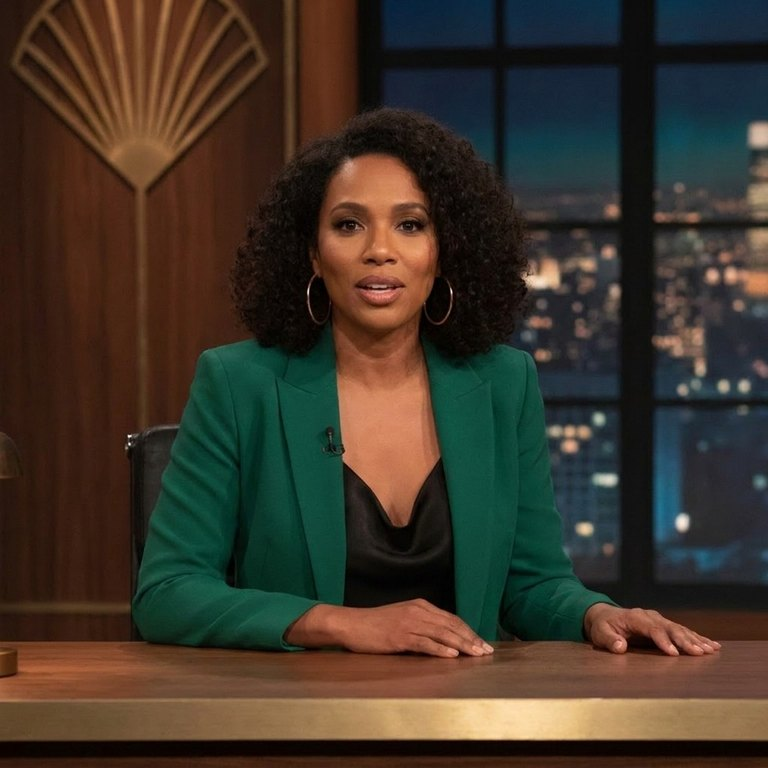
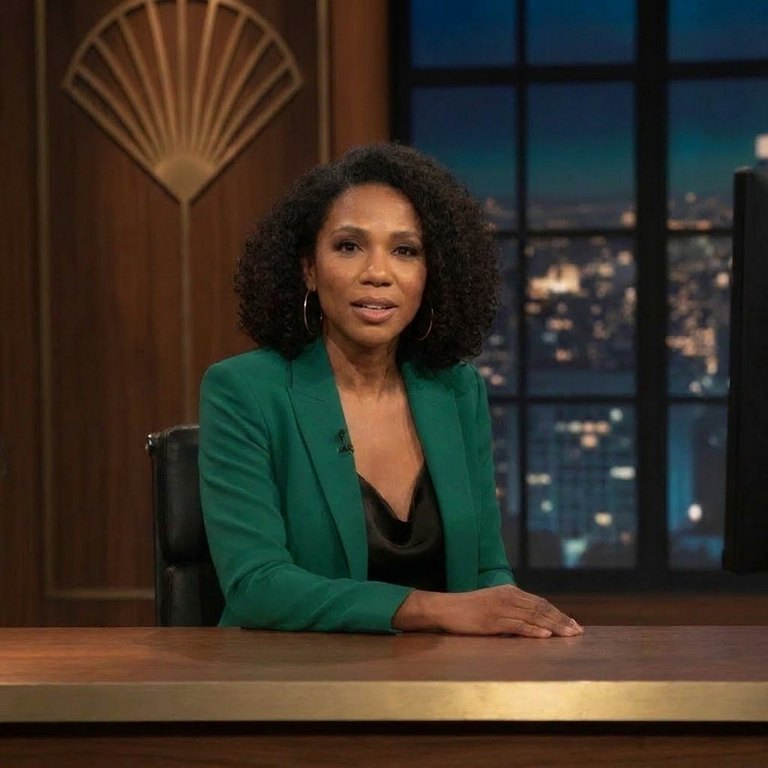
feat: The Gilded Reel's host faces the viewers and turns to her guest, and speaks English throughout
A render's pose is fixed, so the host has two again, in the same seat of the
same set: facing the lens while she speaks to the viewers (the opening, the
film, the invitation, and from the wrap), turned to the TV while her guest is
on. Both say her voice; the one on screen is heard. She is framed further back,
so her gestures stay inside the studio, and the set was rebuilt around that
framing with nobody at the desk.

Both avatars were still drifting into French; the delivery rule no longer
allows any other language, and the guest's persona greets in English.

diff --git a/apps/tv-show-live/page/App.tsx b/apps/tv-show-live/page/App.tsx
@@ -15,12 +15,13 @@ import { BackToApps, clock, useAvatarOnly, type AvatarOnly, type SpeechWriter } 
 import { createBooth, type Booth, type Role, type Stage } from '../show/booth.ts';
 import { startScore } from './score.ts';
 import { createFloor } from '../show/floor.ts';
-import { createDirector, type Director, type Shot, type ShotMode } from '../show/director.ts';
+import { createDirector, hostPose, type Director, type Pose, type Shot, type ShotMode } from '../show/director.ts';
 import { FILM, GUESTS, HOST, SHOW, firstName, type Guest } from '../show/cast.ts';
 import { filmCue, goodbyeCue, inviteCue, noteCue, nudgeCue, topicCue, welcomeCue, wrapCue } from '../show/script.ts';
 import { openSpeech, SpeechError, type SpeechLine } from '../show/speech.ts';
 import { createResampler, createVoice } from '../show/voice.ts';
 import cam1 from '../studio/cam1.jpg';
+import cam2 from '../studio/cam2.jpg';
 import wall from '../studio/wall.jpg';
 import desk from '../studio/desk.webp';
 import ines from '../guests/ines.jpg';
@@ -110,6 +111,8 @@ export function App() {
   const trailerOn = useRef(false);
   trailerOn.current = trailer;
   const [shot, setShot] = useState<Shot>('host-front');
+  const [wrapping, setWrapping] = useState(false);
+  const pose = hostPose(stage, wrapping);
   const [shotMode, setShotMode] = useState<ShotMode>('auto');
   const director = useRef<Director | null>(null);
   const logId = useRef(0);
@@ -120,10 +123,13 @@ export function App() {
   const seatApi = (seat: Role) => `${API}/show/${showRef.current}/${seat}`;
   const face = (seat: string) => (showId ? `tv-show-live/show/${showId}/${seat}` : 'tv-show-live');
   // Jada's face is her camera-1 avatar (facing the lens); her speech session is her main avatar's.
-  const hostFace = useAvatarOnly(face('front'));
+  // Jada twice, one pose each (a render's pose is fixed): camera 1 facing the lens, for the
+  // viewers, and her main avatar turned to the TV, for her guest. Both say her one voice.
+  const frontFace = useAvatarOnly(face('front'));
+  const hostFace = useAvatarOnly(face('host'));
   const guestFace = useAvatarOnly(face('guest'));
-  const faces = useRef({ host: hostFace, guest: guestFace });
-  faces.current = { host: hostFace, guest: guestFace };
+  const faces = useRef({ front: frontFace, host: hostFace, guest: guestFace });
+  faces.current = { front: frontFace, host: hostFace, guest: guestFace };
 
   const booth = useRef<Booth | null>(null);
   const lines = useRef<Partial<Record<Role, SpeechLine>>>({});
@@ -139,7 +145,7 @@ export function App() {
 
   // Each avatar's voice: its face says it, the other avatar hears it, and the booth sees when it speaks.
   const voices = useMemo(() => {
-    const make = (role: Role, seats: ('host' | 'guest')[]) => {
+    const make = (role: Role, seats: ('front' | 'host' | 'guest')[]) => {
       const feeders = seats.map((seat) => ({ seat, feeder: faceFeeder(() => faces.current[seat]) }));
       const resample = createResampler();
       const voice = createVoice({
@@ -177,7 +183,7 @@ export function App() {
         flush() { voice.flush(); for (const { feeder } of feeders) feeder.end(); },
       };
     };
-    return { host: make('host', ['host']), guest: make('guest', ['guest']) };
+    return { host: make('host', ['front', 'host']), guest: make('guest', ['guest']) };
   }, []);
 
   async function openSeat(role: Role) {
@@ -206,22 +212,23 @@ export function App() {
   // screen until Jada invites them on.
   useEffect(() => {
     if (!showId) return;
+    void frontFace.start();
     void hostFace.start();
     void guestFace.start();
   }, [showId]);
   const hostOpened = useRef(false);
   const [backstage, setBackstage] = useState(true);
   useEffect(() => {
-    if ([hostFace, guestFace].some((f) => f.phase !== 'live') || hostOpened.current || !booth.current) return;
+    if ([frontFace, hostFace, guestFace].some((f) => f.phase !== 'live') || hostOpened.current || !booth.current) return;
     hostOpened.current = true;
     setBackstage(false);
     void openSeat('host');
-  }, [hostFace.phase, guestFace.phase]);
+  }, [frontFace.phase, hostFace.phase, guestFace.phase]);
   useEffect(() => {
     if (!onShow) return;
-    const failed = [hostFace, guestFace].find((f) => f.phase === 'failed');
+    const failed = [frontFace, hostFace, guestFace].find((f) => f.phase === 'failed');
     if (failed) offAir(failed.detail || 'A camera could not start.');
-  }, [hostFace.phase, guestFace.phase]);
+  }, [frontFace.phase, hostFace.phase, guestFace.phase]);
   useEffect(() => {
     if (stage !== 'over' || !onShow) return;
     const id = setTimeout(() => void wrapUp(), END_AFTER_GOODBYE_MS);
@@ -232,9 +239,10 @@ export function App() {
   // Both voices are heard whatever the shot; nobody in the studio during the trailer.
   useEffect(() => {
     const set = (f: AvatarOnly, on: boolean) => { if (f.audioRef.current) f.audioRef.current.muted = !on; };
-    set(hostFace, !trailer);
+    set(frontFace, pose === 'front' && !trailer);
+    set(hostFace, pose === 'turned' && !trailer);
     set(guestFace, patched && !trailer);
-  }, [trailer, patched, hostFace.phase, guestFace.phase]);
+  }, [pose, trailer, patched, frontFace.phase, hostFace.phase, guestFace.phase]);
 
   function offAir(why: string) {
     if (!booth.current) return;
@@ -250,13 +258,13 @@ export function App() {
     setTrailer(false);
     voices.host.flush();
     voices.guest.flush();
-    await Promise.allSettled([lines.current.host?.end(), lines.current.guest?.end(), faces.current.host.end(), faces.current.guest.end()]);
+    await Promise.allSettled([lines.current.host?.end(), lines.current.guest?.end(), faces.current.front.end(), faces.current.host.end(), faces.current.guest.end()]);
     lines.current = {};
     if (showRef.current) void fetch(`${API}/show/${showRef.current}/end`, { method: 'POST', keepalive: true }).catch(() => {});
   }
 
   async function goOnAir(first: string) {
-    setProblem(''); setLog([]); setUsed(new Set([first])); setPatched(false); setStage('greeting'); setTrailer(false); setShot('host-front'); setShotMode('auto');
+    setProblem(''); setLog([]); setUsed(new Set([first])); setPatched(false); setStage('greeting'); setTrailer(false); setShot('host-front'); setShotMode('auto'); setWrapping(false);
     director.current?.close();
     director.current = createDirector({ onShot: setShot });
     hostOpened.current = false;
@@ -298,13 +306,13 @@ export function App() {
     addLog('booth', `Topic for Jada: ${topic}`);
   };
   const sendNote = (text: string) => { booth.current?.cue(noteCue(text)); addLog('booth', `Note for Jada: ${text}`); };
-  const wrap = () => { booth.current?.wrap(); addLog('booth', 'Wrap it up'); };
+  const wrap = () => { booth.current?.wrap(); setWrapping(true); addLog('booth', 'Wrap it up'); };
   const chooseShot = (mode: ShotMode) => { setShotMode(mode); director.current?.mode(mode); };
   const endShow = () => { offAir(''); setStage('over'); };
   const backToLobby = () => { booth.current = null; setOnShow(false); setShowId(null); };
 
   const done = (p: AvatarOnly['phase']) => p === 'ended' || p === 'failed' || p === 'idle';
-  const allDone = done(hostFace.phase) && done(guestFace.phase);
+  const allDone = done(frontFace.phase) && done(hostFace.phase) && done(guestFace.phase);
 
   return (
     <div className="nc-app gr">
@@ -323,7 +331,7 @@ export function App() {
         <Lobby guestId={guestId} setGuestId={setGuestId} topics={topics} setTopics={setTopics} onGo={goOnAir} problem={problem} />
       ) : (
         <main className="nc-show">
-          <Program host={hostFace} guest={guestFace} guestInfo={guest} patched={patched} stage={stage}
+          <Program front={frontFace} host={hostFace} pose={pose} guest={guestFace} guestInfo={guest} patched={patched} stage={stage}
             backstage={backstage} shot={shot} trailer={trailer} onTrailerDone={trailerDone} />
           <section className="nc-booth" aria-label="The booth">
             <div className="nc-booth-head">
@@ -372,17 +380,17 @@ function Face({ face, poster }: { face: AvatarOnly; poster: string }) {
 // the renderer's drift has no hard line to slip against); the guest plays on
 // the TV. The director's shots are camera
 // moves on that set: wide, pushed in on Jada, pushed in on the TV.
-function Program({ host, guest, guestInfo, patched, stage, backstage, shot, trailer, onTrailerDone }: {
-  host: AvatarOnly; guest: AvatarOnly; guestInfo: Guest; patched: boolean; stage: Stage;
+function Program({ front, host, pose, guest, guestInfo, patched, stage, backstage, shot, trailer, onTrailerDone }: {
+  front: AvatarOnly; host: AvatarOnly; pose: Pose; guest: AvatarOnly; guestInfo: Guest; patched: boolean; stage: Stage;
   backstage: boolean; shot: Shot; trailer: boolean; onTrailerDone: () => void;
 }) {
   const live = stage === 'on-air' || stage === 'closing';
   const g = firstName(guestInfo.name);
-  const faces = [host, guest];
+  const faces = [front, host, guest];
   const failed = faces.find((f) => f.phase === 'failed');
   const backstageText = failed ? failed.detail : faces.some((f) => f.phase === 'warming') ? 'Lighting the stage…' : 'Getting the studio ready…';
   // Which cameras are up, so a long wait says what it is waiting for.
-  const cameras: [string, AvatarOnly][] = [['Jada', host], [g, guest]];
+  const cameras: [string, AvatarOnly][] = [['Camera 1', front], ['Camera 2', host], [g, guest]];
   // Until the guest is on, the camera stays wide on Jada and the key art on the TV.
   const camera = !patched ? 'wide' : shot === 'host-side' ? 'host' : shot === 'guest' ? 'tv' : 'wide';
   const third = camera === 'tv' ? { name: guestInfo.name, billing: guestInfo.billing } : camera === 'host' || !patched ? HOST : null;
@@ -403,7 +411,9 @@ function Program({ host, guest, guestInfo, patched, stage, backstage, shot, trai
           {patched && <span className="tv-live"><span className="nc-rec" />Live · via video call</span>}
           <span className="gr-tv-glass" aria-hidden="true" />
         </div>
-        <div className="gr-host"><Face face={host} poster={cam1} /></div>
+        {/* Both of Jada's renders stay in frame (a video off screen is not sent); the other one is hidden. */}
+        <div className={`gr-host ${pose === 'front' ? '' : 'is-off'}`}><Face face={front} poster={cam1} /></div>
+        <div className={`gr-host ${pose === 'turned' ? '' : 'is-off'}`}><Face face={host} poster={cam2} /></div>
         {/* The front of the desk, in front of her: when the renderer zooms in, her arms go
             behind a desk that stays put, and the desk runs on unbroken. */}
         <img className="gr-desk" src={desk} alt="" />
@@ -426,7 +436,7 @@ function Program({ host, guest, guestInfo, patched, stage, backstage, shot, trai
           )}
         </div>
       )}
-      {(host.audioBlocked || guest.audioBlocked) && (
+      {(front.audioBlocked || host.audioBlocked || guest.audioBlocked) && (
         <button type="button" className="nc-hear" onClick={() => faces.forEach((f) => f.resumeAudio())}>Tap to hear the show</button>
       )}
       <div className="nc-ticker gr-ticker" aria-hidden="true">

diff --git a/apps/tv-show-live/page/gilded.css b/apps/tv-show-live/page/gilded.css
@@ -229,23 +229,24 @@ button { font: inherit; }
 .gr-set { position: absolute; inset: 0; transform-origin: 50% 50%; }
 /* Cuts, not zooms: a studio camera is either on its shot or not. */
 /* Jada from the chest up; the TV's edge stays in frame (a video off screen is not sent). */
-.gr-program.is-host .gr-set { transform: scale(1.5); transform-origin: 0% 54.8%; }
-.gr-program.is-tv .gr-set { transform: scale(1.9); transform-origin: 94.9% 39.7%; }
+.gr-program.is-host .gr-set { transform: scale(1.5); transform-origin: 4% 35%; }
+.gr-program.is-tv .gr-set { transform: scale(1.9); transform-origin: 95.36% 19.4%; }
 .gr-wall { position: absolute; inset: 0; width: 100%; height: 100%; object-fit: fill; }
 
-/* Jada: her whole render, laid exactly over her still in the set (the set was outpainted from
-   that still, and her place in it measured), so the desk and wall run on past her edges. Only
-   the edges inside the frame fade, narrowly: the still under them is her too. */
-.gr-host { position: absolute; left: 0.208%; top: 12.189%; width: 49.167%; height: 88.06%; z-index: 2;
-  -webkit-mask-image: linear-gradient(to right, #000 72%, transparent 100%), linear-gradient(to bottom, transparent 0, #000 14%);
-  -webkit-mask-composite: source-in; mask-image: linear-gradient(to right, #000 72%, transparent 100%), linear-gradient(to bottom, transparent 0, #000 14%); mask-composite: intersect; }
+/* Jada: her whole render, laid exactly over her place in the set (the set was outpainted from
+   her still and she was then removed from it; her place was measured by matching the two). It
+   fills the frame's height, so only its right edge lies inside the frame, and that edge fades
+   into empty wall and window. */
+.gr-host { position: absolute; left: 0.486%; top: 0.498%; width: 55.417%; height: 99.254%; z-index: 2;
+  -webkit-mask-image: linear-gradient(to right, #000 86%, transparent 100%); mask-image: linear-gradient(to right, #000 86%, transparent 100%); }
 /* The desk's front, from just below her hands: cut from the set, laid over her render. */
-.gr-desk { position: absolute; left: 0; top: 87.5%; width: 100%; height: 12.5%; z-index: 3; pointer-events: none; }
+.gr-host.is-off { opacity: 0; }
+.gr-desk { position: absolute; left: 0; top: 86%; width: 100%; height: 14%; z-index: 3; pointer-events: none; }
 .ll-face { position: absolute; inset: 0; overflow: hidden; background: transparent; }
 .ll-face img, .ll-face video { position: absolute; inset: 0; width: 100%; height: 100%; object-fit: cover; display: block; }
 
 /* The TV on the wall: the screen measured from the backdrop's green. */
-.gr-tv { position: absolute; left: 59.084%; top: 24.089%; width: 36.919%; height: 38.151%; overflow: hidden; z-index: 1; background: #0e0d0c; }
+.gr-tv { position: absolute; left: 61.483%; top: 14.453%; width: 34.738%; height: 36.328%; overflow: hidden; z-index: 1; background: #0e0d0c; }
 .gr-tv-feed { position: absolute; inset: 0; opacity: 0; transition: opacity .5s; }
 .gr-tv-feed.is-on { opacity: 1; }
 /* The top of the guest's frame: her face and the film's art behind her (her hands fall below the TV). */

diff --git a/apps/tv-show-live/show/script.ts b/apps/tv-show-live/show/script.ts
@@ -61,9 +61,10 @@ export const wrapCue = (guest: Guest) =>
  * voice performs (laughter among them), and on air they laughed far too often.
  * Naming a sound plants it, so this describes the delivery instead.
  */
-// English only: the guest's persona opens with a French "Bonsoir!", and live the guest went on in
-// French and the host followed. Silence: while nobody spoke to her, the host filled the air with
+// English only, with no allowance: the guest is French, and live she went on in French and the
+// host followed; allowed "a word now and then", she still opened with "Bonsoir" and closed with
+// "Au revoir". Silence: while nobody spoke to her, the host filled the air with
 // hesitations.
-export const DELIVERY = 'Speak English only, whatever language the other person uses; a single word of another language now and then is fine. Speak in plain words only: put no cues in brackets or stage directions into what you say. Keep your delivery warm, even and conversational, and let your words carry the humour. When nobody is speaking to you and you have nothing to say, stay silent rather than thinking aloud.';
+export const DELIVERY = 'Speak English only, from your first word to your last, whatever language the other person uses: no words or phrases of another language, not even a hello, thanks or goodbye. Speak in plain words only: put no cues in brackets or stage directions into what you say. Keep your delivery warm, even and conversational, and let your words carry the humour. When nobody is speaking to you and you have nothing to say, stay silent rather than thinking aloud.';
 
 export const goodbyeCue = `${HOST.name} is wrapping up the show: say a short, warm goodbye to her and the viewers.`;

diff --git a/apps/tv-show-live/show/director.test.ts b/apps/tv-show-live/show/director.test.ts
@@ -1,5 +1,5 @@
 import { afterEach, beforeEach, describe, expect, it, vi } from 'vitest';
-import { createDirector, HOLD_MS, type Shot } from './director.ts';
+import { createDirector, HOLD_MS, hostPose, type Shot } from './director.ts';
 
 function setup() {
   const shots: Shot[] = [];
@@ -67,5 +67,13 @@ describe('the director', () => {
     expect(director.shot).toBe('two');
     director.mode('auto');
     expect(director.shot).toBe('guest');
+  });
+});
+
+describe("Jada's pose", () => {
+  it('faces the lens for the viewers and turns to the TV only while her guest is on, until the wrap', () => {
+    for (const s of ['greeting', 'introducing', 'trailer', 'inviting', 'dialing', 'closing', 'over'] as const) expect(hostPose(s, false)).toBe('front');
+    expect(hostPose('on-air', false)).toBe('turned');
+    expect(hostPose('on-air', true)).toBe('front');
   });
 });

diff --git a/apps/tv-show-live/show/director.ts b/apps/tv-show-live/show/director.ts
@@ -70,3 +70,12 @@ export function createDirector(opts: { onShot(shot: Shot): void; now?: () => num
     close() { clearTimeout(timer); },
   };
 }
+
+/**
+ * Which of Jada's renders is on (a render's pose is fixed, so she has one per
+ * pose): turned to the TV while her guest is on, facing the lens when she
+ * speaks to the viewers, from the opening to the trailer and the invitation,
+ * and again from the wrap.
+ */
+export type Pose = 'front' | 'turned';
+export const hostPose = (stage: Stage, wrapping: boolean): Pose => (stage === 'on-air' && !wrapping ? 'turned' : 'front');
